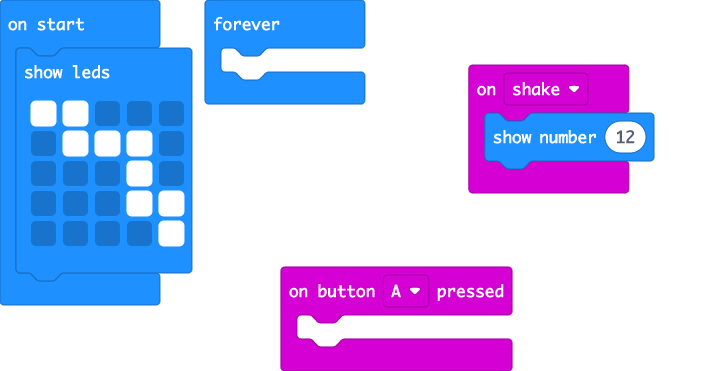
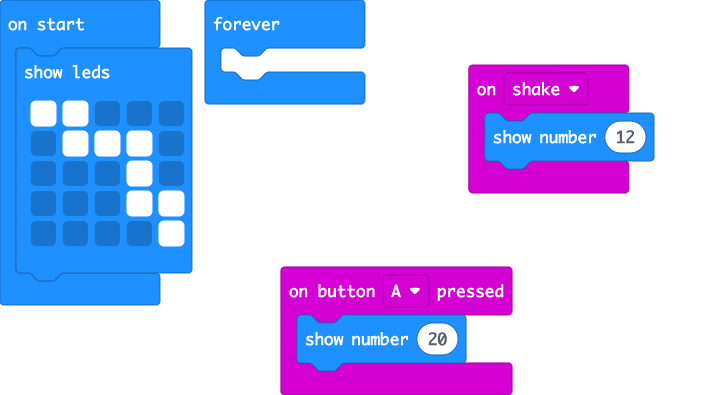
Show number 20

diff --git a/main.ts b/main.ts
@@ -1,5 +1,5 @@
 input.onButtonPressed(Button.A, function () {
-	
+    basic.showNumber(20)
 })
 input.onGesture(Gesture.Shake, function () {
     basic.showNumber(12)
